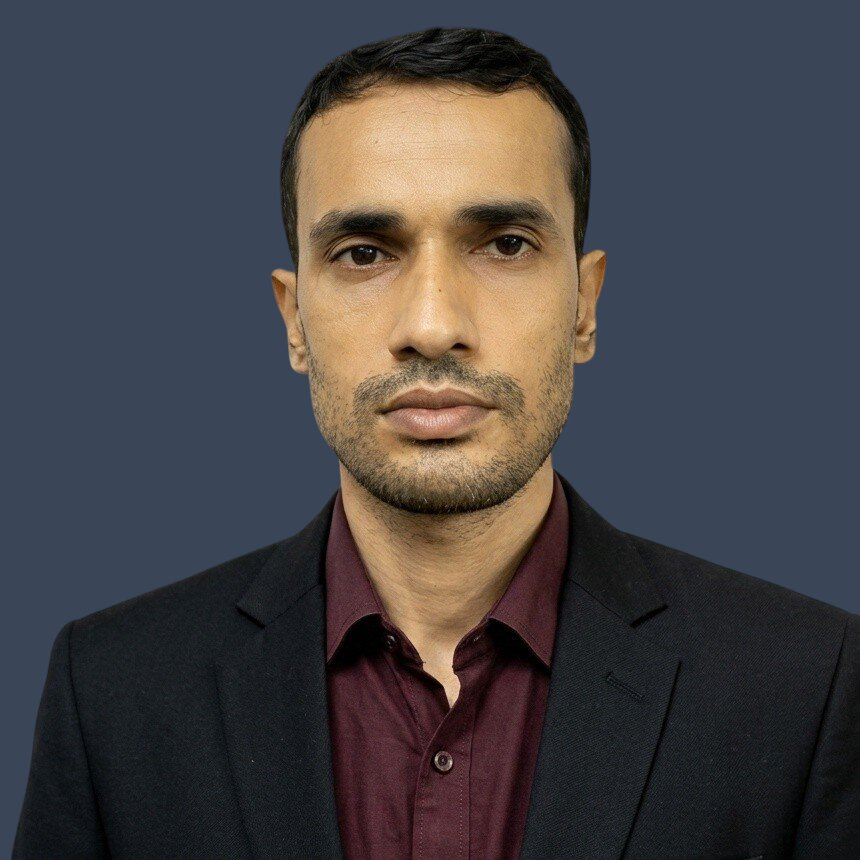
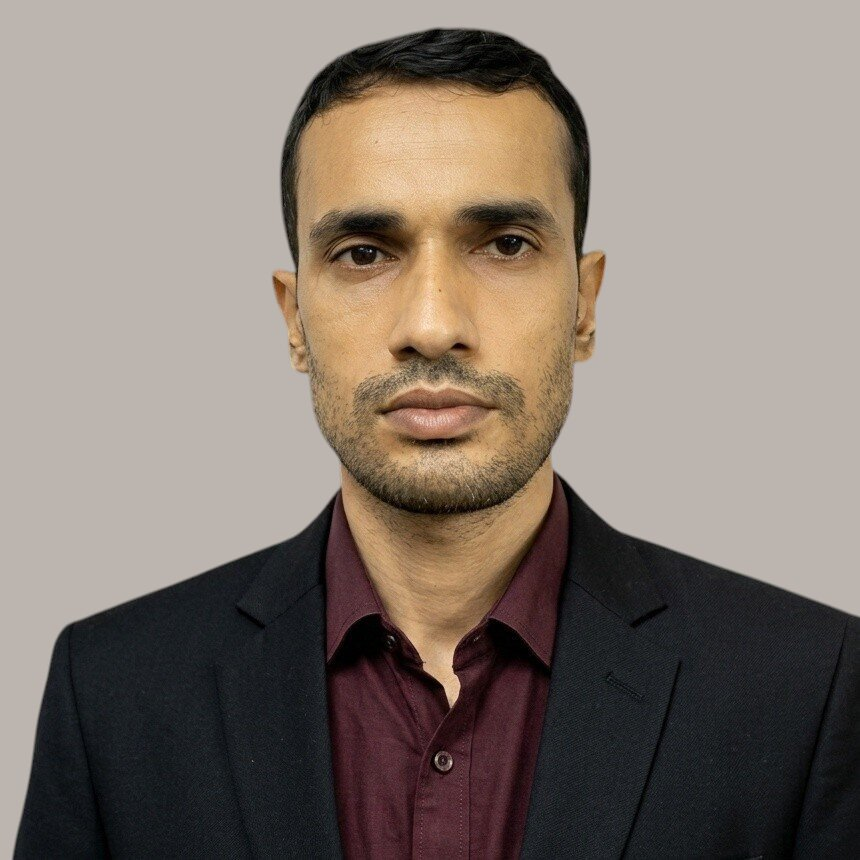
OG img

diff --git a/components/BlogCard.tsx b/components/BlogCard.tsx
@@ -28,7 +28,11 @@ export default function BlogCard({ blog }: { blog: BlogCardProps }) {
 
   return (
     <Link href={`/blog/${cardSlug}`} className="block group h-full">
-      <div className="flex flex-col justify-between h-full rounded-2xl bg-white dark:bg-black/20 border border-slate-300 dark:border-gray-700 overflow-hidden shadow-[0_4px_20px_rgba(0,0,0,0.05)] transition-all duration-300 hover:-translate-y-1 hover:border-violet-500/40 dark:hover:border-violet-500/50 hover:shadow-[0_12px_30px_rgba(124,58,237,0.18)]">
+      <div className="relative flex flex-col justify-between h-full rounded-2xl bg-white dark:bg-black/20 border border-slate-300 dark:border-gray-700 overflow-hidden shadow-[0_4px_20px_rgba(0,0,0,0.05)] transition-all duration-300 hover:-translate-y-1 hover:border-violet-500/40 dark:hover:border-violet-500/50 hover:shadow-[0_12px_30px_rgba(124,58,237,0.18)]">
+
+        <span className="absolute -top-2 sm:-top-3 lg:-top-2  -right-0.5 text-3xl sm:text-4xl lg:text-5xl font-black text-violet-900/5 dark:text-violet-100/5 select-none pointer-events-none tracking-tighter uppercase z-0">
+          {blog.category || "Web Application"}
+        </span>
 
         {/* Upper Card Content */}
         <div className="p-4 sm:p-6">
@@ -81,4 +85,3 @@ export default function BlogCard({ blog }: { blog: BlogCardProps }) {
   );
 }
 
- 

diff --git a/app/blog/[slug]/page.tsx b/app/blog/[slug]/page.tsx
@@ -163,7 +163,7 @@ function RichParagraphRenderer({ content }: { content: string }) {
               }
 
               return (
-                <p key={lineIdx} className="text-sm sm:text-base text-slate-700 dark:text-gray-300 leading-relaxed">
+                <p key={lineIdx} className="text-md text-slate-700 dark:text-gray-300 leading-relaxed">
                   <InlineFormattedText text={line} />
                 </p>
               );
@@ -263,7 +263,7 @@ export default async function SingleBlogPage({ params }: Props) {
         </div>
 
         {/* Article Body */}
-        <article className="rounded-2xl sm:border sm:border-slate-200 sm:dark:border-gray-700 sm:p-8 sm:shadow-[0_4px_20px_rgba(0,0,0,0.05)] space-y-8">
+        <article className="rounded-2xl sm:border sm:border-slate-200 sm:dark:border-gray-700 sm:p-5 sm:shadow-[0_4px_20px_rgba(0,0,0,0.05)] space-y-8">
           {blog.coverImage && (
             <div className="relative aspect-video w-full overflow-hidden rounded-xl bg-violet-100/40 dark:bg-gray-900 border border-slate-200 dark:border-gray-800">
               <Image
